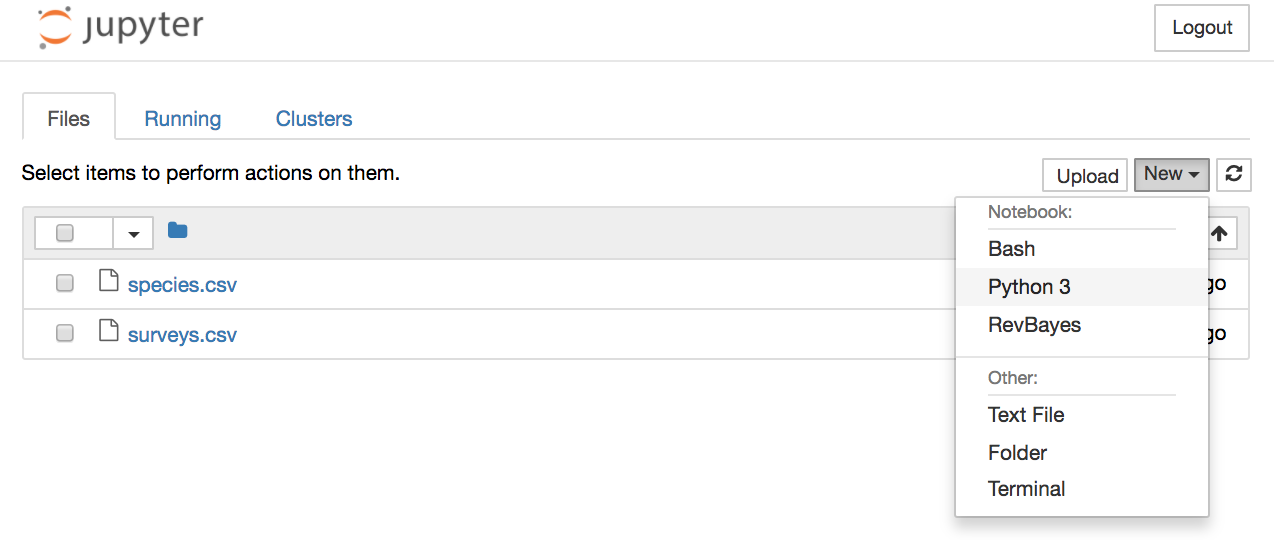
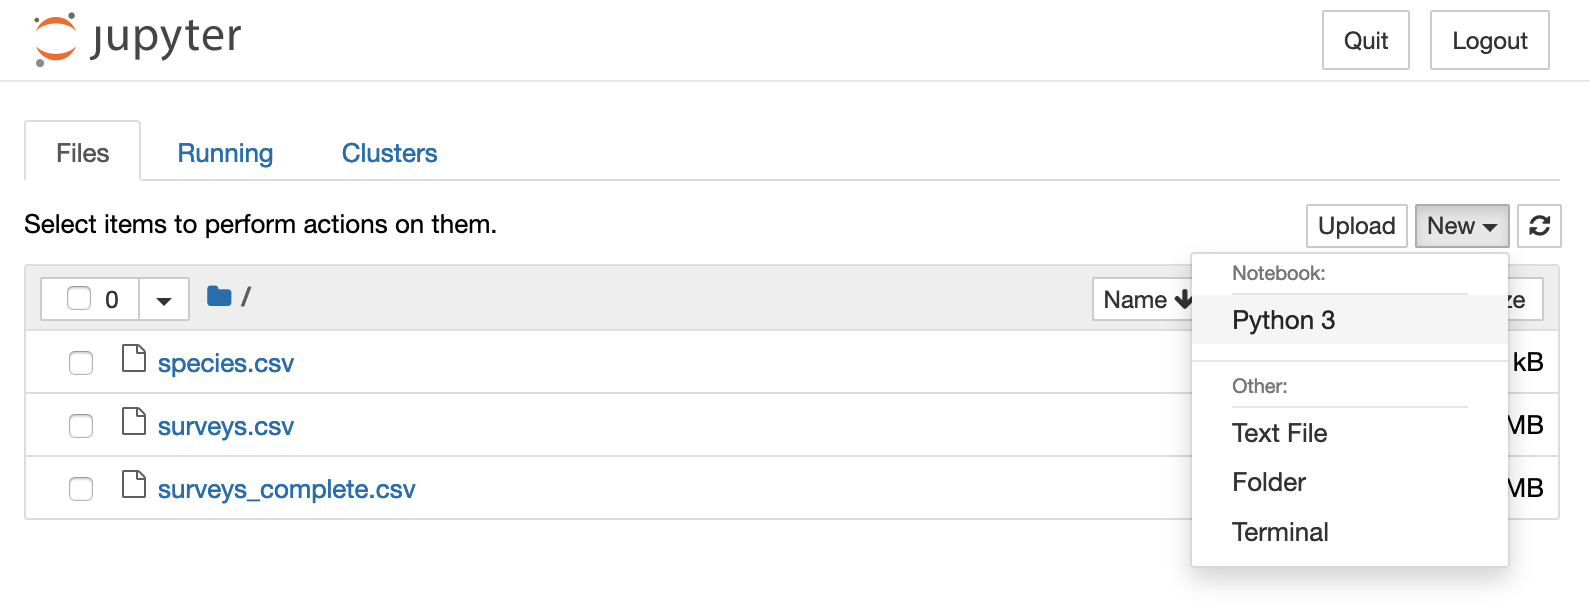
edits for 2019

diff --git a/_episodes/01-intro.md b/_episodes/01-intro.md
@@ -185,8 +185,8 @@ You can run python in various tools. Perhaps the most straightforward is to use 
 $ python
 ```
 ~~~
-Python 3.6.6 |Anaconda custom (64-bit)| (default, Jun 28 2018, 11:07:29)
-[GCC 4.2.1 Compatible Clang 4.0.1 (tags/RELEASE_401/final)] on darwin
+Python 3.7.3 (default, Mar 27 2019, 16:54:48) 
+[Clang 4.0.1 (tags/RELEASE_401/final)] :: Anaconda, Inc. on darwin
 Type "help", "copyright", "credits" or "license" for more information.
 >>>
 ~~~
@@ -214,7 +214,7 @@ When using the interactive console, it's important to remember that indentation 
 ~~~
 {: .python}
 
-When you hit enter after a colon `:`, the prompt changes to `...`, indicating that you are within a loop. Enter the loop contents after indenting and end the loop by adding an extra newline.
+When you hit enter after a colon `:`, the prompt changes to `...`, indicating that you are within a loop. Enter the loop contents _after indenting_ and end the loop by adding an extra newline. 
 
 ~~~
 >>> for i in range(5):
@@ -293,7 +293,9 @@ Out [1]: 2000
 ~~~
 {: .output}
 
-Another great thing about IPython is that you can also use Unix commands like `ls` and `cd`.
+Another great thing about IPython is that you can also use Unix commands like `ls` and `cd`. 
+Additionally, when you create a loop in iPython, it automatically adds the indentation for you. Try the `for` loop from above.
+
 
 **To exit** the interactive console, type **_control+D_**.
 
@@ -321,13 +323,15 @@ This should open your default browser. You can start a new Python notebook by se
 
 ![jupyter browser](../fig/jupyter1.png)
 
-Note that I have additional options for Jupyter notebooks and can create a notebook for code written in Bash or [RevBayes](http://revbayes.github.io/about.html). This is because a [Jupyter kernel](http://jupyter-client.readthedocs.io/en/latest/kernels.html) can be written for any language. If you like working in the Jupyter environment, you may be interested in installing the [Bash kernel](https://github.com/takluyver/bash_kernel) or the [R kernel](https://irkernel.github.io/). If you develop software that involves a new language, you can also create a Jupyter kernel like we have done for [RevBayes](https://github.com/revbayes/revbayes_kernel).
+<!-- Note that I have additional options for Jupyter notebooks and can create a notebook for code written in Bash or [RevBayes](http://revbayes.github.io/about.html).  -->
+Note that a [Jupyter kernel](http://jupyter-client.readthedocs.io/en/latest/kernels.html) can be written for any language. If you like working in the Jupyter environment, you may be interested in installing the [Bash kernel](https://github.com/takluyver/bash_kernel) or the [R kernel](https://irkernel.github.io/). 
+<!-- If you develop software that involves a new language, you can also create a Jupyter kernel like we have done for [RevBayes](https://github.com/revbayes/revbayes_kernel). -->
 
 When you select **_New->Python 3_**, new Python 3 Jupyter notebook will open. This now allows you combine Python code with Markdown to fully integrate documentation with your code.
 
 ![jupyter browser](../fig/jupyter2.png)
 
-Each cell in a Jupyter notebook can be executed and you can choose the type of cell using the pull-down menu in the tool bar. By default the cell is **_Code_**. Any thing you enter in a cell can be executed by using the "play" button in the tool bar or with **_Shift+Enter_** via the keyboard.
+Each cell in a Jupyter notebook can be executed and you can choose the type of cell using the pull-down menu in the tool bar. By default the cell is **_Code_**. Anything you enter in a cell can be executed by using the "play" button in the tool bar or with **_Shift+Enter_** via the keyboard.
 
 > ## Count the Gs using Python in a Jupyter Notebook
 >

diff --git a/setup.md b/setup.md
@@ -8,19 +8,19 @@ You need to download some files to follow this lesson:
 
 1. Make a new folder in your Desktop (or anywhere else you like) called `python-bcb546`.
 2. Download the following files into this folder:
-    3. [surveys.csv](https://github.com/EEOB-BioData/BCB546X-Fall2018/raw/master/course-files/python/surveys.csv)
-    4. [species.csv](https://github.com/EEOB-BioData/BCB546X-Fall2018/raw/master/course-files/python/species.csv)
-    5. [surveys_complete.csv](https://github.com/EEOB-BioData/BCB546X-Fall2018/raw/master/course-files/python/surveys_complete.csv)
+    3. [surveys.csv](https://github.com/EEOB-BioData/BCB546X-Fall2019/raw/master/course-files/python/surveys.csv)
+    4. [species.csv](https://github.com/EEOB-BioData/BCB546X-Fall2019/raw/master/course-files/python/species.csv)
+    5. [surveys_complete.csv](https://github.com/EEOB-BioData/BCB546X-Fall2019/raw/master/course-files/python/surveys_complete.csv)
 
-Or, you can pull from the [course repository](https://github.com/EEOB-BioData/BCB546X-Fall2018) and change to the directory containing the data files:
-1. `cd BCB546X-Fall2018`
+Or, you can pull from the [course repository](https://github.com/EEOB-BioData/BCB546X-Fall2019) and change to the directory containing the data files:
+1. `cd BCB546X-Fall2019`
 2. `git pull origin master`
 3. `cd course-files/python`
 
 
 Or if you haven't yet cloned the course repository:
-1. `git clone git@github.com:EEOB-BioData/BCB546X-Fall2018.git`
-2. `cd BCB546X-Fall2018/course-files/python`
+1. `git clone git@github.com:EEOB-BioData/BCB546X-Fall2019.git`
+2. `cd BCB546X-Fall2019/course-files/python`
 
 
 
